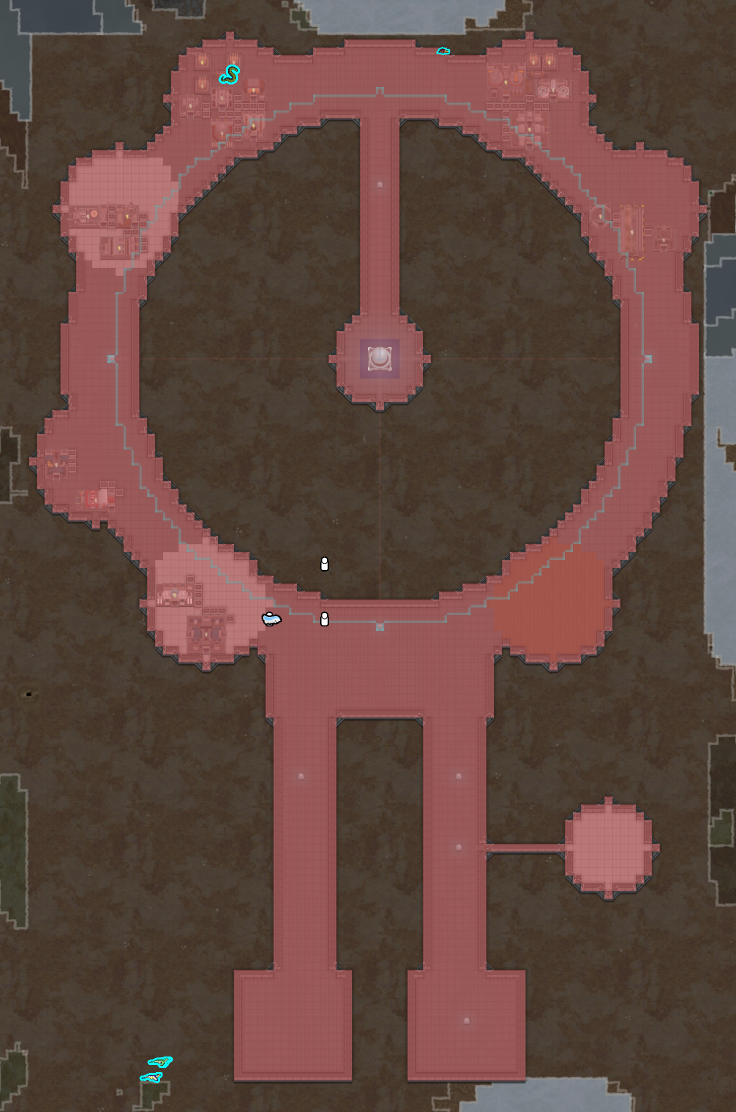
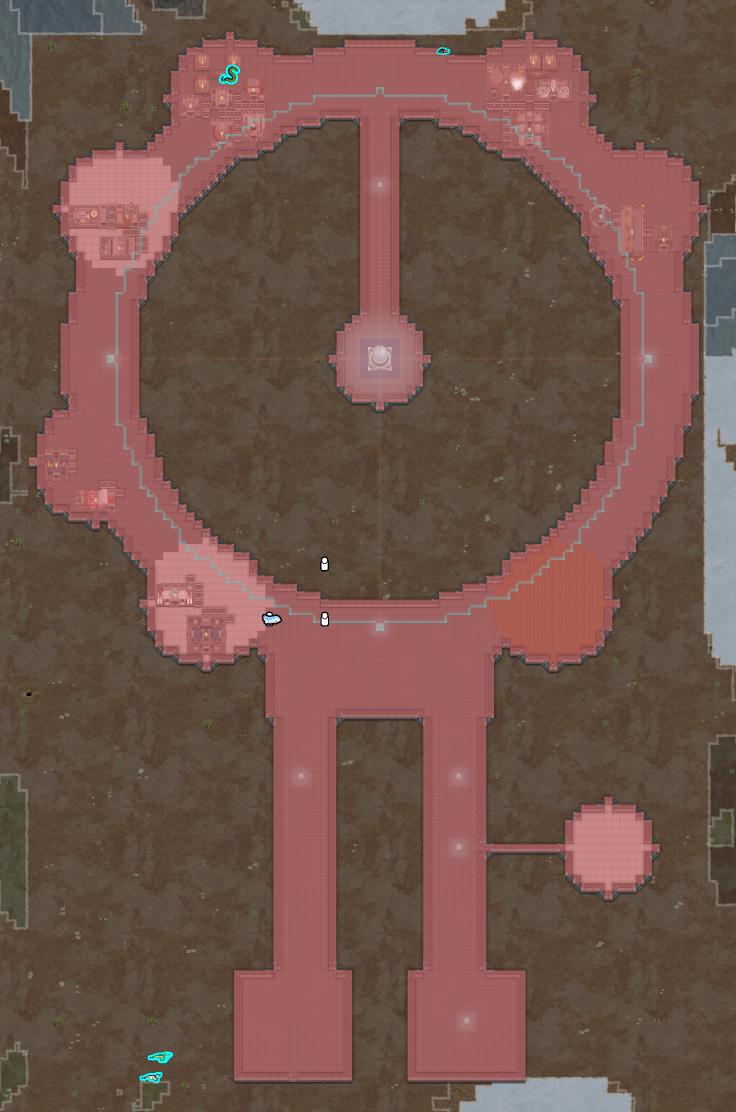
Cut two doors into the gravship and re-export — the hull was sealed
CREATE caught it: 782 continuous hull tiles, no way in. Doors at (115,58) south
and (82,136) west, plain Door in Steel, spawned in the same breath as the
destroy because both hull and door hold roof.
Export now carries 2 Door entries. Artifact updated, so every future import
gets a ship you can enter.
⚠ BOARDABLE IS STILL NOT PROVEN — see B-v3: the bridge cannot order a pawn to
walk to a cell, so nobody has been observed entering.

diff --git a/infrastructure/state/queue/BRIDGE.md b/infrastructure/state/queue/BRIDGE.md
@@ -322,3 +322,29 @@ already parses them and can emit the ops.
 **Payoff:** closes the design loop. Author a ship offline, import it, look at
 it, edit the file, re-import — no worldgen, no 25-minute load per iteration.
 Blocked on a deploy, which needs the game DOWN.
+
+---
+
+### B-v3. `jawa/order_pawn` — the bridge cannot order a pawn to walk anywhere
+Found 2026-08-13 trying to prove row 8's "boardable" gate. **There is no working
+way to make a named pawn go to a named cell.**
+
+Measured, on a quicktest with the game ticking:
+- `rimworld/set_draft {pawnName}` works — pawn drafts, panel shows Undraft.
+- `rimworld/right_click_cell {x,z}` returns *"Dispatched a live right-click…"*
+  and **produces no move order.** Pawn sat at (118,137) through 2,400 ticks with
+  the target on screen.
+- Ticks were genuinely advancing (`ticksGame` 4520 → 4820 → 5120), so this is
+  not a paused-game artifact.
+- Pathing itself is fine: undrafted, the same colonists wandered across four
+  distinct positions under normal AI. **The game moves pawns; we cannot aim
+  them.**
+
+**Why it matters beyond this row:** "walk a pawn somewhere and see what happens"
+is the shape of a whole class of live test — boardability, reachability, door
+function, room enclosure, trap triggers. None of it is runnable today.
+
+**Build:** a companion tool calling `pawn.jobs.TryTakeOrderedJob(JobMaker
+.MakeJob(JobDefOf.Goto, cell), JobTag.Misc)` on the main thread, returning the
+pawn's position read back after N ticks — not merely that the job was queued.
+Verify the API names with ilprobe first; do not trust this sketch.
